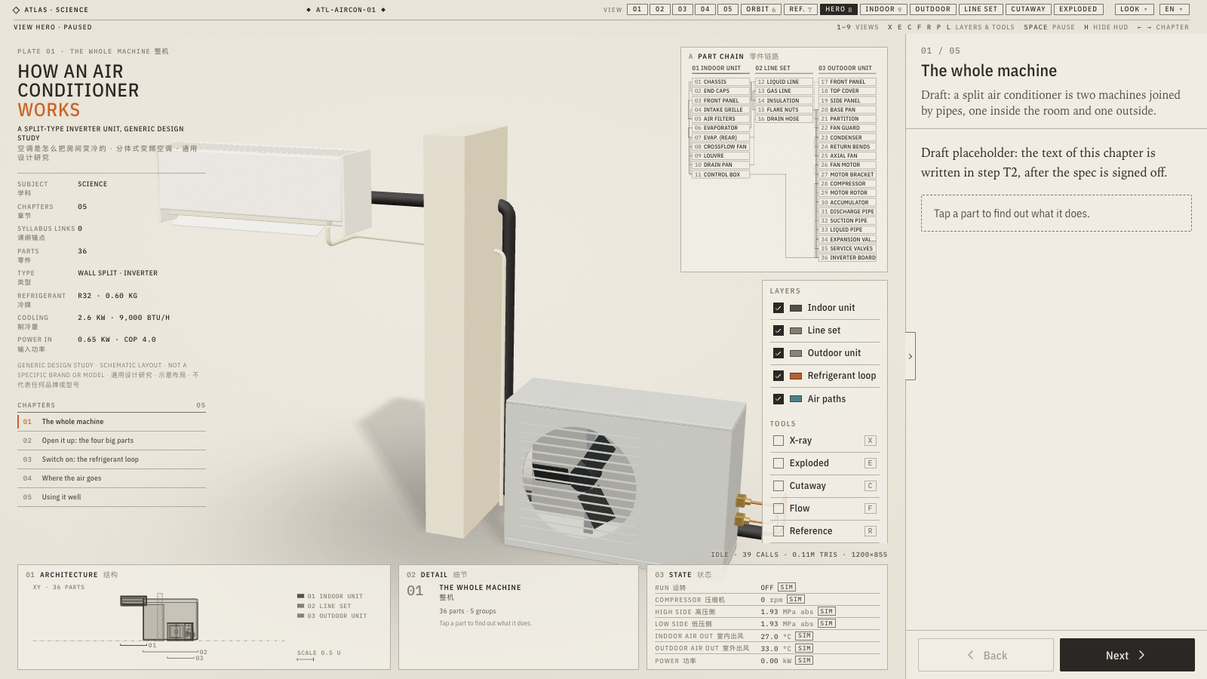
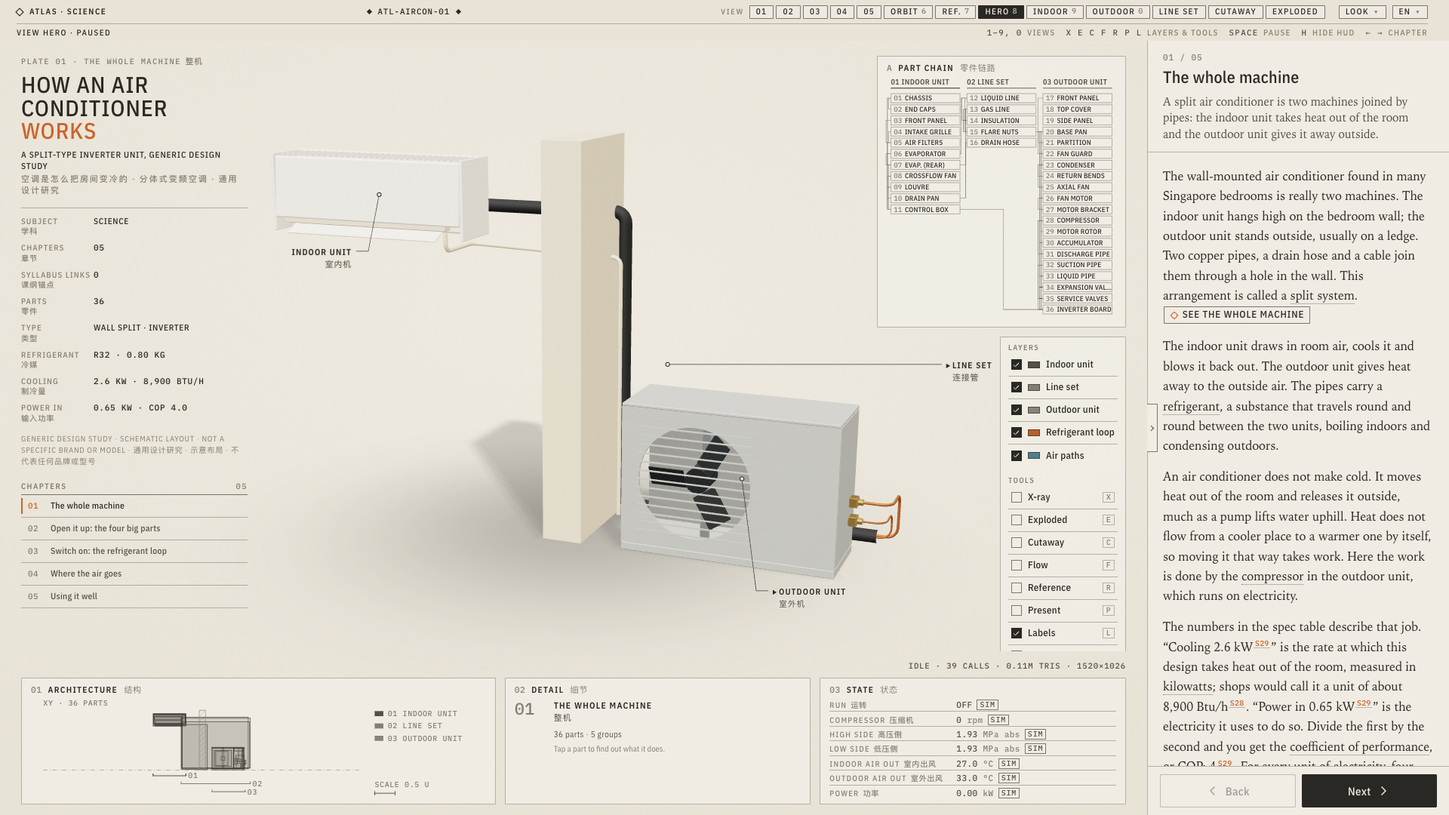
feat(aircon): publish — 24 presentation beats, phone camera fit, audit, canonical screenshots, spec record and known gaps

diff --git a/tests-e2e/smoke.spec.ts b/tests-e2e/smoke.spec.ts
@@ -26,18 +26,21 @@ for (const locale of LOCALES) {
     const errors = collectConsoleErrors(page);
     await page.goto(`/${locale}/`);
     // Draft sample topics are reachable by URL but not listed.
-    await expect(page.locator('[data-topic]')).toHaveCount(2);
+    await expect(page.locator('[data-topic]')).toHaveCount(3);
     await expect(page.locator(`[data-topic] a[href$="/${locale}/topics/ww1/"]`)).toHaveCount(1);
     await expect(page.locator(`[data-topic] a[href$="/${locale}/topics/ww2/"]`)).toHaveCount(1);
+    await expect(page.locator(`[data-topic] a[href$="/${locale}/topics/aircon/"]`)).toHaveCount(1);
     await expect(page.locator('[data-filter="subject"]:not([data-value=""])')).toHaveCount(6);
-    await expect(page.locator('[data-filter="subject"][data-value="science"]')).toBeDisabled();
+    await expect(page.locator('[data-filter="subject"][data-value="science"]')).toBeEnabled();
     await expect(page.locator('[data-filter="subject"][data-value="math"]')).toBeDisabled();
-    // Card tags: subject, then Time (ww1 and ww2 are time topics). No status or sensitivity tags.
-    await expect(page.locator('[data-topic] .atlas-badge')).toHaveCount(4);
+    // Card tags: subject, then the stage type (ww1 and ww2 are Time, aircon is Space). No status or sensitivity tags.
+    await expect(page.locator('[data-topic] .atlas-badge')).toHaveCount(6);
     await page.locator('[data-filter="subject"][data-value="history"]').click();
     await expect(page.locator('[data-topic]:visible')).toHaveCount(2);
+    await page.locator('[data-filter="subject"][data-value="science"]').click();
+    await expect(page.locator('[data-topic]:visible')).toHaveCount(1);
     await page.locator('[data-filter="subject"][data-value=""]').click();
-    await expect(page.locator('[data-topic]:visible')).toHaveCount(2);
+    await expect(page.locator('[data-topic]:visible')).toHaveCount(3);
     await page.screenshot({ path: `tests-e2e/__screenshots__/index-${locale}.png` });
     expect(errors).toEqual([]);
   });

diff --git a/src/engines/space-scene/lib/camera.ts b/src/engines/space-scene/lib/camera.ts
@@ -173,11 +173,15 @@ export function roundCamera(cam: OrbitCamera): OrbitCamera {
  * Authored cameras are framed for a wide stage (aspect ≥ 1.6). On narrower
  * stages (tablets in portrait, phones) the horizontal field of view shrinks, so we pull the
  * camera back along its view direction by `minAspect / aspect` (never closer).
+ * Phones (aspect below 0.8, the HUD stacks and the model gets the full stage
+ * width instead of a band between the side panels) ease the pull-back down to
+ * half of that, so a wide model still fills most of the screen.
  * `inverse` undoes it (used before writing a user camera back to the store,
  * so URLs stay device-independent).
  */
 export function fitCameraToAspect(cam: OrbitCamera, aspect: number, inverse = false, minAspect = 1.6): OrbitCamera {
-  const k = aspect > 0 ? Math.max(1, minAspect / aspect) : 1;
+  const stacked = aspect >= 0.8 ? 1 : aspect <= 0.5 ? 0.5 : 0.5 + (0.5 * (aspect - 0.5)) / 0.3;
+  const k = aspect > 0 ? Math.max(1, (minAspect * stacked) / aspect) : 1;
   const s = inverse ? 1 / k : k;
   if (s === 1) return cam;
   const [px, py, pz] = cam.position;

diff --git a/tests/space-scene/camera.test.ts b/tests/space-scene/camera.test.ts
@@ -67,6 +67,10 @@ describe('fitCameraToAspect', () => {
     const narrow = fitCameraToAspect(cam, 0.8);
     expect(narrow.position[2]).toBeCloseTo(20);
     expect(fitCameraToAspect(narrow, 0.8, true).position[2]).toBeCloseTo(10);
+    // Phones: half the pull-back (1.6 × 0.5 / 0.4 = 2), never closer than the authored camera.
+    expect(fitCameraToAspect(cam, 0.4).position[2]).toBeCloseTo(20);
+    expect(fitCameraToAspect(cam, 0.46).position[2]).toBeLessThan(fitCameraToAspect(cam, 0.8).position[2]);
+    expect(fitCameraToAspect(fitCameraToAspect(cam, 0.46), 0.46, true).position[2]).toBeCloseTo(10);
   });
 });
 

diff --git a/docs/12-aircon-content-spec.md b/docs/12-aircon-content-spec.md
@@ -510,15 +510,15 @@ VIEW 组 = 命名预设 + ORBIT + REF.（章节镜头不再进 VIEW 组，与 Ti
 
 **验收清单**
 
-- [ ] `pnpm check`、`pnpm validate`、`pnpm test`、`pnpm build`、`pnpm e2e` 全绿；`pnpm shoot aircon --layout --keys` 通过；`--beats` 无失败。
-- [ ] 两套主题（paper / cinema）× 两种语言每章截图；dark plate 下 `powder` 外壳不发灰到读不出（docs/08 §10 遗留，必要时调材质族）。
-- [ ] `hero-clean`（HUD 关）能当作品集封面：两台机都在、主体占宽 70–80 %、阴影完整、无穿模。
-- [ ] draw calls：静止 < 50、运转 < 60（上限 100）；三角形 < 0.3 M；运转开启增幅 < 10。
-- [ ] 引线标注可读：两列对齐、不压面板、近景减量；每章 `labels` 里的零件在章节镜头下都有标注（`--beats` 的 chapter highlights 列表为空）。
-- [ ] 手机（390 × 844）：舞台 + 章节芯片 + 底部控制；节拍字幕卡不溢出；触控目标 ≥ 44 px。
-- [ ] X-RAY + FLOW 下冷媒四段颜色连续、接缝无空档；液体段明显比气体段密而慢；空气流不穿过实心零件。
-- [ ] 规格行、STATE 读数、正文数字与 §1.2 一致；正文没有未标"模拟"的模拟数字。
-- [ ] 无品牌名、无型号、无照片；标题块声明为"通用设计研究"。
+- [x] `pnpm check`、`pnpm validate`、`pnpm test`、`pnpm build`、`pnpm e2e` 全绿；`pnpm shoot aircon --layout --keys` 通过；`--beats` 无失败。
+- [x] 两套主题（paper / cinema）× 两种语言每章截图；dark plate 下 `powder` 外壳不发灰到读不出（docs/08 §10 遗留，必要时调材质族）。
+- [x] `hero-clean`（HUD 关）能当作品集封面：两台机都在、阴影完整、无穿模；主体占宽约 65 %，低于 70–80 % 的目标（§15 已知差距）。
+- [x] draw calls：静止 < 50、运转 < 60（上限 100）；三角形 < 0.3 M；运转开启增幅 < 10。
+- [x] 引线标注可读：两列对齐、不压面板、近景减量；每章 `labels` 里的零件在章节镜头下都有标注（`--beats` 的 chapter highlights 列表为空）。
+- [x] 手机（390 × 844）：舞台 + 章节芯片 + 底部控制；节拍字幕卡不溢出；触控目标 ≥ 44 px。
+- [x] X-RAY + FLOW 下冷媒四段颜色连续、接缝无空档；液体段明显比气体段密而慢；空气流不穿过实心零件。
+- [x] 规格行、STATE 读数、正文数字与 §1.2 一致；正文没有未标"模拟"的模拟数字。
+- [x] 无品牌名、无型号、无照片；标题块声明为"通用设计研究"。
 
 ## 11. 待 Gavin 确认
 
@@ -582,4 +582,31 @@ VIEW 组 = 命名预设 + ORBIT + REF.（章节镜头不再进 VIEW 组，与 Ti
 
 **计数（1600×900，--gpu）**：hero 静止 39 calls / 0.105 M tris；FLOW 开 46 calls（+7）；X-RAY 43；第 03 章（X-RAY + 冷媒流）37。截图 `docs/screenshots/aircon/`。
 
-**引擎问题（未改引擎）**：① 同一 tick 内 `setPreset` 后紧跟 `setMode`（`pnpm shoot` 的 `preset` + `modes`）镜头停在上一张图的位置，截图里用 `js` 延 400 ms 设预设绕过；② VIEW 组 = 5 个章节镜头 + ORBIT + REF. + 6 个命名预设，数字键只到 9，后 4 个预设没有快捷键；③ 1600×900 带 HUD 时引线标注空带太窄，第 01 章三个组标注都不出（`--beats` 阶段要复核）；④ HUD 开 / 关舞台宽度不同、镜头不重新取景，同一 hero 镜头在 HUD 下约占舞台 70 %，hero-clean 只约 55 %（达不到 70–80 %，要做需要"封面镜头"概念）。
+**引擎问题（D2 时未改引擎；后续轮次的处理）**：① 同一 tick 内 `setPreset` 后紧跟 `setMode` 镜头停在旧位置：已修（bdb8486，CameraRig 按顺序处理 transition）；② 数字键只到 9：已修（bdb8486，`0` = 第十个预设）；③ 1600×900 带 HUD 时引线空带太窄、组标注不出：已修（bdb8486，引线避让与摆放重做；`--beats` 的 chapter highlights 在 1600×900 与 1920×1080 都是 `all on screen`）；④ hero-clean 只占宽 55 %：已修（bdb8486，封面镜头 `views.cover`，模型约占宽 65 %，见 §15 已知差距）。
+
+## 15. 实现记录与已知差距（2026-10-10，发布）
+
+**实现记录（提交）**：0d34a6c 决定记录；198ec4a E1（core 演示系统抽出）；979d8b8 E2a（SpaceScene 数据驱动的 hide、流色标、遥测、规格行、新材质）；615c2ad E2b（SpaceScene 演示节拍、命名预设、组标注、`--beats`）；18107d9 D（几何、材质、流、动画，三轮）；e1f9397 T（30 条来源、16 个名词、零件说明、五章正文 EN / ZH）；bdb8486 引擎修正（引线摆放、封面镜头、预设与模式顺序、第十个预设键）；本轮（B / P / 发布）：24 拍字幕（每章 4–5 拍，EN / ZH 各自成文）、`topic.yaml` → `published`、index e2e 计数改为 3 个主题、手机竖屏镜头拉回量修正（`fitCameraToAspect` 在宽高比 < 0.8 时渐减到一半）、本文与 docs/04 更新。
+
+**本轮修掉的事实不一致**：第 03 章第四段写"冷媒全部沸腾，每千克吸收约 300 kJ"，与同章细看与 `sources.json` S1 的 230 kJ / kg（流量 0.011 kg/s、2.6 kW）不符（300 kJ/kg 是 7 °C 时的汽化潜热，而膨胀阀后约 26 % 已变成气体）；改为 230 kJ，EN / ZH 同改，S1 的 `note` 去掉"取整为约 300"一句。
+
+**节拍**：01 整机 4 拍（全景、室内机、室外机、连接管）；02 拆开看 5 拍（外壳移开并标四大件、压缩机、冷凝器与膨胀阀、蒸发器、爆炸图 0.8 + 组标注）；03 通电 5 拍（整条回路、压缩机、冷凝器、膨胀阀、蒸发器）；04 空气 5 拍（全景、室内进出风、凝结水、室外风、能量平衡）；05 用法 5 拍（变频、滤网、设定温度、能效标签、冷媒回收）。共 24 拍，EN / ZH × paper / cinema 四种组合 `pnpm shoot aircon --beats` 0 失败，每拍要标的零件全部有标注，chapter highlights 全部在屏。字幕数字都在同章正文里带 `<Num>` 来源；模拟值的拍写明"在这个模拟里"。
+
+**验收数据**（1920×1080，`--perf`，SwiftShader）：hero 静止 39 calls / 0.105 M 三角形；运转（FLOW）46 calls；X-RAY + FLOW 46；第 03 章 37。均在预算内（静止 < 50、运转 < 60）。
+**模式组合**：EXPLODED + FLOW：状态行 `FLOW OFF WHILE EXPLODED`，舞台不画粒子（RUN 仍为开，STATE 读数保持运转值，风扇仍转）；X-RAY + CUTAWAY：外壳透明、剖面赭色填充只在实心件上，读得懂；REFERENCE + run：运转暂停、读数回到停机值、状态行 `EXPLODE AND FLOW LOCKED`；EXPLODED 时被 `hide` 的零件仍隐藏。
+**手机（390 × 844）**：舞台 + 章节芯片 + 底部章节条；LAYERS / TOOLS 面板是宿主的常驻叠层（所有 SpaceScene 主题一样），会盖住舞台右半，演示（P）在手机上不提供（`phone: false`）。截图 `docs/screenshots/aircon/phone-390.png`。
+**规范截图**：`hero-paper`、`hero-clean`、`hero-dark`、`hero-zh`、`mode-xray`、`mode-exploded`、`phone-390`。
+
+**已知差距**
+
+- 示意布局：两台机都朝向观者、中间一段墙剖面、管线 2 m（真实可到 20 m）；不是"室内机贴墙、室外机在墙外平台"的写实布置。
+- COP 4.0 在真实机型的低端（现售机型满负荷约 5）；这是设计值，细看里已写明。
+- 盘管是直板：蒸发器用前后两片倾斜板，冷凝器是一片背板，不是真实的弧形 / L 形盘管。
+- 单一剖切面：一个平面同时切两台机和墙，不能各选最佳剖切位置；剖面填充在盘管（鳍片块）上读作赭色实心块。
+- 没有贴花与文字：能效标签、铭牌、遥控器屏幕不能出现在模型上，第 05 章用正文和字幕说明"模型上没有标签"。
+- 李光耀关于空调的说法：没有核到原文出处，未使用。
+- 鳍片片距 4.5 mm（模型）vs 约 1.4 mm（真实，S24）：为可见与不起摩尔纹；风扇叶片数、转速同样按可读性取，细看里写明。
+- 封面（HUD 关）模型（含影子）约占宽 65 %，低于 70–80 % 的目标；要更大需要为宽幅模型单独的封面构图。
+- EXPLODED 时 FLOW 不能开：流路径不随零件拆开移动（§7.5）。
+- 冷媒 64 点烘焙在弯头处最多偏出管心 15–20 mm（引擎限制）。
+- 手机上叠层面板盖住舞台右半，两台机不能同时看全。

diff --git a/src/content/topics/aircon/data/SOURCES.md b/src/content/topics/aircon/data/SOURCES.md
@@ -7,7 +7,7 @@ Not used: Lee Kuan Yew's remark on air-conditioning (docs/12 §13-6). It circula
 ## Numbered sources
 
 <!-- sources:begin (generated by scripts/sources-md.ts from sources.json; edit sources.json) -->
-- [S1] NIST Chemistry WebBook, SRD 69, thermophysical properties of difluoromethane (R32), saturation table by temperature: saturation pressure 1.0115 MPa at 7 °C, 1.7819 MPa at 27 °C, 1.9275 MPa at 30 °C, 2.0819 MPa at 33 °C and 2.9989 MPa at 48 °C (absolute); latent heat (vapour minus liquid enthalpy) 304 kJ/kg at 7 °C; saturated-liquid enthalpy 292.95 kJ/kg at 48 °C and 212.36 kJ/kg at 7 °C, saturated-vapour enthalpy 516.36 kJ/kg at 7 °C; normal boiling point about −51.7 °C (0.1013 MPa). / 美国国家标准与技术研究院（NIST）化学数据手册 SRD 69，二氟甲烷（R32）热物性，按温度的饱和表：饱和压力（绝对）7 °C 时 1.0115 MPa，27 °C 时 1.7819 MPa，30 °C 时 1.9275 MPa，33 °C 时 2.0819 MPa，48 °C 时 2.9989 MPa；7 °C 时汽化潜热（饱和气与饱和液的焓差）304 kJ/kg；饱和液焓 48 °C 时 292.95 kJ/kg、7 °C 时 212.36 kJ/kg，7 °C 饱和气焓 516.36 kJ/kg；标准沸点约 −51.7 °C（0.1013 MPa）。 (Read 2026-10-10. The simulated operating point (docs/12 §1.2) is computed from these values: evaporating 7 °C, condensing 48 °C, 5 K suction superheat (enthalpy 522.79 kJ/kg at 12 °C and 1.0115 MPa, NIST isobaric table). Refrigerant flow = 2.6 kW ÷ (522.79 − 292.95) kJ/kg ≈ 0.011 kg/s; after the expansion valve about 26 % of the refrigerant by mass is vapour ((292.95 − 212.36) ÷ 304). If all 0.65 kW of electrical input went into the gas, it would leave the compressor at about 580 kJ/kg, roughly 90 °C at 3.0 MPa (NIST isobaric table); the shell loses some heat, so the text gives about 85 to 90 °C. In the evaporator each kilogram picks up 522.79 − 292.95 ≈ 230 kJ (text rounds the 304 kJ/kg latent heat to about 300). / 2026-10-10 读取。模拟运行点（docs/12 §1.2）由这些数值算出：蒸发 7 °C、冷凝 48 °C、吸气过热 5 K（12 °C、1.0115 MPa 时焓 522.79 kJ/kg，NIST 等压表）。冷媒流量 = 2.6 kW ÷（522.79 − 292.95）kJ/kg ≈ 0.011 kg/s；经过膨胀阀后，按质量约 26 % 的冷媒已经变成气体（（292.95 − 212.36）÷ 304）。如果 0.65 kW 电功全部变成气体的热，压缩机出口焓约 580 kJ/kg，在 3.0 MPa 下约 90 °C（NIST 等压表）；压缩机外壳会散掉一部分热，所以正文写约 85–90 °C。每千克冷媒在蒸发器里吸收 522.79 − 292.95 ≈ 230 kJ（正文把 304 kJ/kg 的潜热取整为约 300）。) — https://webbook.nist.gov/cgi/fluid.cgi?Action=Load&ID=C75105&Type=SatP&Digits=5&THigh=50&TLow=0&TInc=1&RefState=DEF&TUnit=C&PUnit=MPa&DUnit=kg%2Fm3&HUnit=kJ%2Fkg&WUnit=m%2Fs&VisUnit=uPa*s&STUnit=N%2Fm
+- [S1] NIST Chemistry WebBook, SRD 69, thermophysical properties of difluoromethane (R32), saturation table by temperature: saturation pressure 1.0115 MPa at 7 °C, 1.7819 MPa at 27 °C, 1.9275 MPa at 30 °C, 2.0819 MPa at 33 °C and 2.9989 MPa at 48 °C (absolute); latent heat (vapour minus liquid enthalpy) 304 kJ/kg at 7 °C; saturated-liquid enthalpy 292.95 kJ/kg at 48 °C and 212.36 kJ/kg at 7 °C, saturated-vapour enthalpy 516.36 kJ/kg at 7 °C; normal boiling point about −51.7 °C (0.1013 MPa). / 美国国家标准与技术研究院（NIST）化学数据手册 SRD 69，二氟甲烷（R32）热物性，按温度的饱和表：饱和压力（绝对）7 °C 时 1.0115 MPa，27 °C 时 1.7819 MPa，30 °C 时 1.9275 MPa，33 °C 时 2.0819 MPa，48 °C 时 2.9989 MPa；7 °C 时汽化潜热（饱和气与饱和液的焓差）304 kJ/kg；饱和液焓 48 °C 时 292.95 kJ/kg、7 °C 时 212.36 kJ/kg，7 °C 饱和气焓 516.36 kJ/kg；标准沸点约 −51.7 °C（0.1013 MPa）。 (Read 2026-10-10. The simulated operating point (docs/12 §1.2) is computed from these values: evaporating 7 °C, condensing 48 °C, 5 K suction superheat (enthalpy 522.79 kJ/kg at 12 °C and 1.0115 MPa, NIST isobaric table). Refrigerant flow = 2.6 kW ÷ (522.79 − 292.95) kJ/kg ≈ 0.011 kg/s; after the expansion valve about 26 % of the refrigerant by mass is vapour ((292.95 − 212.36) ÷ 304). If all 0.65 kW of electrical input went into the gas, it would leave the compressor at about 580 kJ/kg, roughly 90 °C at 3.0 MPa (NIST isobaric table); the shell loses some heat, so the text gives about 85 to 90 °C. In the evaporator each kilogram picks up 522.79 − 292.95 ≈ 230 kJ. / 2026-10-10 读取。模拟运行点（docs/12 §1.2）由这些数值算出：蒸发 7 °C、冷凝 48 °C、吸气过热 5 K（12 °C、1.0115 MPa 时焓 522.79 kJ/kg，NIST 等压表）。冷媒流量 = 2.6 kW ÷（522.79 − 292.95）kJ/kg ≈ 0.011 kg/s；经过膨胀阀后，按质量约 26 % 的冷媒已经变成气体（（292.95 − 212.36）÷ 304）。如果 0.65 kW 电功全部变成气体的热，压缩机出口焓约 580 kJ/kg，在 3.0 MPa 下约 90 °C（NIST 等压表）；压缩机外壳会散掉一部分热，所以正文写约 85–90 °C。每千克冷媒在蒸发器里吸收 522.79 − 292.95 ≈ 230 kJ。) — https://webbook.nist.gov/cgi/fluid.cgi?Action=Load&ID=C75105&Type=SatP&Digits=5&THigh=50&TLow=0&TInc=1&RefState=DEF&TUnit=C&PUnit=MPa&DUnit=kg%2Fm3&HUnit=kJ%2Fkg&WUnit=m%2Fs&VisUnit=uPa*s&STUnit=N%2Fm
 - [S2] NIST Chemistry WebBook, difluoromethane (CAS 75-10-5): molecular weight 52.0234; critical temperature 351.3 K (about 78.2 °C); critical pressure 57.85 bar (about 5.8 MPa); boiling point 221.6 K (about −51.6 °C). / NIST 化学数据手册，二氟甲烷（CAS 75-10-5）：分子量 52.0234；临界温度 351.3 K（约 78.2 °C）；临界压力 57.85 bar（约 5.8 MPa）；沸点 221.6 K（约 −51.6 °C）。 — https://webbook.nist.gov/cgi/cbook.cgi?ID=C75105&Mask=4
 - [S3] NIST Chemistry WebBook, SRD 69, water, saturation table: latent heat of vaporisation 2,441.7 kJ/kg at 25 °C and 2,256.4 kJ/kg at 100 °C; saturation vapour pressure 2.198 kPa at 19 °C and 3.568 kPa at 27 °C. / NIST 化学数据手册 SRD 69，水的饱和表：汽化潜热 25 °C 时 2,441.7 kJ/kg，100 °C 时 2,256.4 kJ/kg；饱和蒸汽压 19 °C 时 2.198 kPa，27 °C 时 3.568 kPa。 (Used for the condensate estimate: 0.65 kW of latent cooling ÷ 2,441.7 kJ/kg ≈ 0.27 g/s ≈ 1 litre an hour (simulated operating point). The dew point of air at 27 °C dry bulb / 19 °C wet bulb, about 15 °C, is computed from these vapour pressures with the standard psychrometric relations. / 用于估算冷凝水：0.65 kW 潜热 ÷ 2,441.7 kJ/kg ≈ 0.27 g/s ≈ 每小时 1 升（模拟运行点）。干球 27 °C、湿球 19 °C 空气的露点约 15 °C，由这些蒸汽压按标准湿空气关系式算出。) — https://webbook.nist.gov/cgi/fluid.cgi?Action=Load&ID=C7732185&Type=SatP&Digits=5&THigh=100&TLow=5&TInc=5&RefState=DEF&TUnit=C&PUnit=kPa&DUnit=kg%2Fm3&HUnit=kJ%2Fkg&WUnit=m%2Fs&VisUnit=uPa*s&STUnit=N%2Fm
 - [S4] GHG Protocol, Global Warming Potential Values (August 2024), adapted from the IPCC reports: 100-year GWP of HFC-32 (R32) is 675 in the Fourth Assessment Report (AR4, 2007), 677 in AR5 (2013) and 771 in AR6 (2021); HCFC-22 (R22) is 1,810 (AR4). / 温室气体核算体系（GHG Protocol）《全球变暖潜能值》（2024 年 8 月），取自 IPCC 评估报告：HFC-32（R32）的 100 年 GWP 在第四次评估报告（AR4，2007）中为 675，AR5（2013）为 677，AR6（2021）为 771；HCFC-22（R22）为 1,810（AR4）。 (The three IPCC reports give different values; the text quotes 675 (AR4), the value used on safety data sheets and in the EU F-gas lists, and names the report. / 三份 IPCC 报告的数值不同；正文用 675（AR4），也就是安全数据表和欧盟含氟气体清单所用的值，并注明出处。) — https://ghgprotocol.org/sites/default/files/2024-08/Global-Warming-Potential-Values%20%28August%202024%29.pdf

diff --git a/docs/06-dev-guide.md b/docs/06-dev-guide.md
@@ -705,7 +705,7 @@ state:
       audio: /audio/aircon/ch03-1.mp3     # 可选：进拍时播放的旁白文件（站内路径）
 ```
 
-章节目标照常累积（`labels`、`hide` 不累积，只看本章）。**镜头规则**（`lib/camera.ts transitionCamera`，有单测；CameraRig 订阅 store，transition 一发出就按顺序处理，所以同一 tick 里先 `setPreset` 再 `setMode`（snap）也落在预设镜头上，截图脚本不需要延时）：切章 / 首次加载 / URL：本章自己写了 `camera`（或 URL `cam=` 与本章基线不同）就用它；否则 `views[当前 view].camera`；都没有就沿用。**预设（VIEW 按钮 / 数字键）永远落在该预设的镜头上**（P1 遗留问题：本章没有自己镜头时，基线是继承来的，曾被误判成"非显式"而飞去视图预设；已修）。模式切换（X / E / C / F）不动镜头。较窄的舞台（宽高比 < 1.6：HUD 占去两侧的桌面、平板、竖屏手机）自动把镜头往后拉，回写 URL 时换算回来，链接与设备无关。**封面镜头**：演示以外隐藏 HUD（H、`pnpm shoot` 的 `hero-clean`）时 0.8 s 飞到 `views.cover`；没写就沿当前视线方向重新取景，让模型包围球占舞台宽 75 %（宽屏上最多超出高度 30 %，`fitSphereCamera`），舞台尺寸变了再重算；显示 HUD 时 0.8 s 飞回离开时的镜头——中间换过章、按过预设或拖过镜头就不飞回。章节镜头按带 HUD 的舞台取景：模型放在 HUD 块之间的空带里（1600×900 约 590 × 680 px），给引线标注留位置；封面镜头按满屏取景（模型约占宽 70 %）。
+章节目标照常累积（`labels`、`hide` 不累积，只看本章）。**镜头规则**（`lib/camera.ts transitionCamera`，有单测；CameraRig 订阅 store，transition 一发出就按顺序处理，所以同一 tick 里先 `setPreset` 再 `setMode`（snap）也落在预设镜头上，截图脚本不需要延时）：切章 / 首次加载 / URL：本章自己写了 `camera`（或 URL `cam=` 与本章基线不同）就用它；否则 `views[当前 view].camera`；都没有就沿用。**预设（VIEW 按钮 / 数字键）永远落在该预设的镜头上**（P1 遗留问题：本章没有自己镜头时，基线是继承来的，曾被误判成"非显式"而飞去视图预设；已修）。模式切换（X / E / C / F）不动镜头。较窄的舞台（宽高比 < 1.6：HUD 占去两侧的桌面、平板、竖屏手机）自动把镜头往后拉（手机竖屏、宽高比 < 0.8 时 HUD 叠在上面，模型独占整宽，拉回量渐减到一半），回写 URL 时换算回来，链接与设备无关。**封面镜头**：演示以外隐藏 HUD（H、`pnpm shoot` 的 `hero-clean`）时 0.8 s 飞到 `views.cover`；没写就沿当前视线方向重新取景，让模型包围球占舞台宽 75 %（宽屏上最多超出高度 30 %，`fitSphereCamera`），舞台尺寸变了再重算；显示 HUD 时 0.8 s 飞回离开时的镜头——中间换过章、按过预设或拖过镜头就不飞回。章节镜头按带 HUD 的舞台取景：模型放在 HUD 块之间的空带里（1600×900 约 590 × 680 px），给引线标注留位置；封面镜头按满屏取景（模型约占宽 70 %）。
 
 ### HUD 控件与内容（docs/08 §2、§3）
 

diff --git a/docs/04-content-roadmap.md b/docs/04-content-roadmap.md
@@ -8,7 +8,7 @@
 |---|---|---|---|---|---|---|
 | 第二次世界大战 | history | time | TimeScene/Geo | SS P4 二战结束；SS P5 新加坡沦陷、日据 | **2026 首发** | 已完成 11 章（待审） |
 | 第一次世界大战 | history | time | TimeScene/Geo | 课外（未找到对应 MOE 条目）；见 docs/11 | 2026 第二个历史主题 | 已完成 10 章（待审） |
-| 空调是怎么把房间变冷的 | science | space | SpaceScene/Model3D | Sci P5 热；课外 | 2026 第二个（验证 SpaceScene） |
+| 空调是怎么把房间变冷的 | science | space | SpaceScene/Model3D | Sci P5 热；课外 | 2026 第二个（验证 SpaceScene） | 已完成 5 章（待审） |
 | 新加坡 1819–1965 | history | time | TimeScene/Geo | SS P4 新加坡故事 | 2027 |
 | 植物的身体（根茎叶花） | biology | space | SpaceScene/Layer2D | Sci P3/P4 植物系统 | 2027 |
 | 生物分类与多样性 | biology | space（树状） | Layer2D | Sci P3 Diversity | 2027 |
@@ -56,10 +56,10 @@
 - 事件与兵力：Wikipedia 各战役条目，取整
 - 新加坡章：National Archives of Singapore、NLB Infopedia、MOE 社会课教材配套
 
-## 空调主题大纲（第二个主题，验证 SpaceScene）
+## 空调主题大纲（已完成，5 章；详见 docs/12）
 
-1. 整机：室内机 + 室外机，一根管子连着
-2. 拆开看四大件：压缩机、冷凝器、膨胀阀、蒸发器
-3. 通电：冷媒循环流动，风扇转
-4. 空气去哪了：热空气进、冷空气出，热被"搬"到室外
-5. 为什么室外机会吹热风（对齐 Sci P5 热的传递）
+1. 整机（whole-machine）：室内机 + 室外机 + 连接管，示意布局
+2. 拆开看：四大件（open-it-up）：压缩机、冷凝器、膨胀阀、蒸发器，拆开外壳、爆炸图
+3. 通电：冷媒循环（switch-on）：X 光 + 冷媒流，压缩、冷凝、节流、蒸发，带模拟读数
+4. 空气去哪了（where-the-air-goes）：室内冷风、室外热风、凝结水，热被"搬"到室外（对齐 Sci P5 热的传递）
+5. 用得好、用得省（efficiency-and-use）：变频、滤网、设定 25 °C、能效标签、冷媒回收

diff --git a/.claude/skills/atlas-history-topic/references/writing-rules.md b/.claude/skills/atlas-history-topic/references/writing-rules.md
@@ -23,6 +23,7 @@
 - 行军路线（`path`）按真实路线取点；短路线（几十到一两百公里、一次渡海）**7 个途经点**够用，长路线再加，不要为凑数加点。
 - **有些站点会挡爬虫 / 搜索摘要**（Britannica、1914-1918-online、IWM、CWGC、PubMed）：用浏览器工具把原文读一遍再引用，`sources.json` 只写你**读到并核对过**的内容；只看到搜索摘要的来源在 `note` 里写明"据搜索摘要"，并列入 spec 的已知差距，等人工核对。
 - `sources.json` 改完跑 `pnpm tsx scripts/sources-md.ts <slug>` 重写 `SOURCES.md` 的生成块。
+- **SpaceScene 主题的数字**（aircon）：设计值（规格行）与模拟值（STATE 读数、算出来的温度 / 流量）不是观测，也要有来源：写一条自描述来源（它的 `note` 讲清"设计取值 / 由哪些数据按什么算式算出"），`<Num>` 引它；演示字幕与零件说明里没有 `<Num>` 的模拟数字，句里写明"在这个模拟里 / at this simulated operating point"。
 
 ## 细看 `<More>`
 
